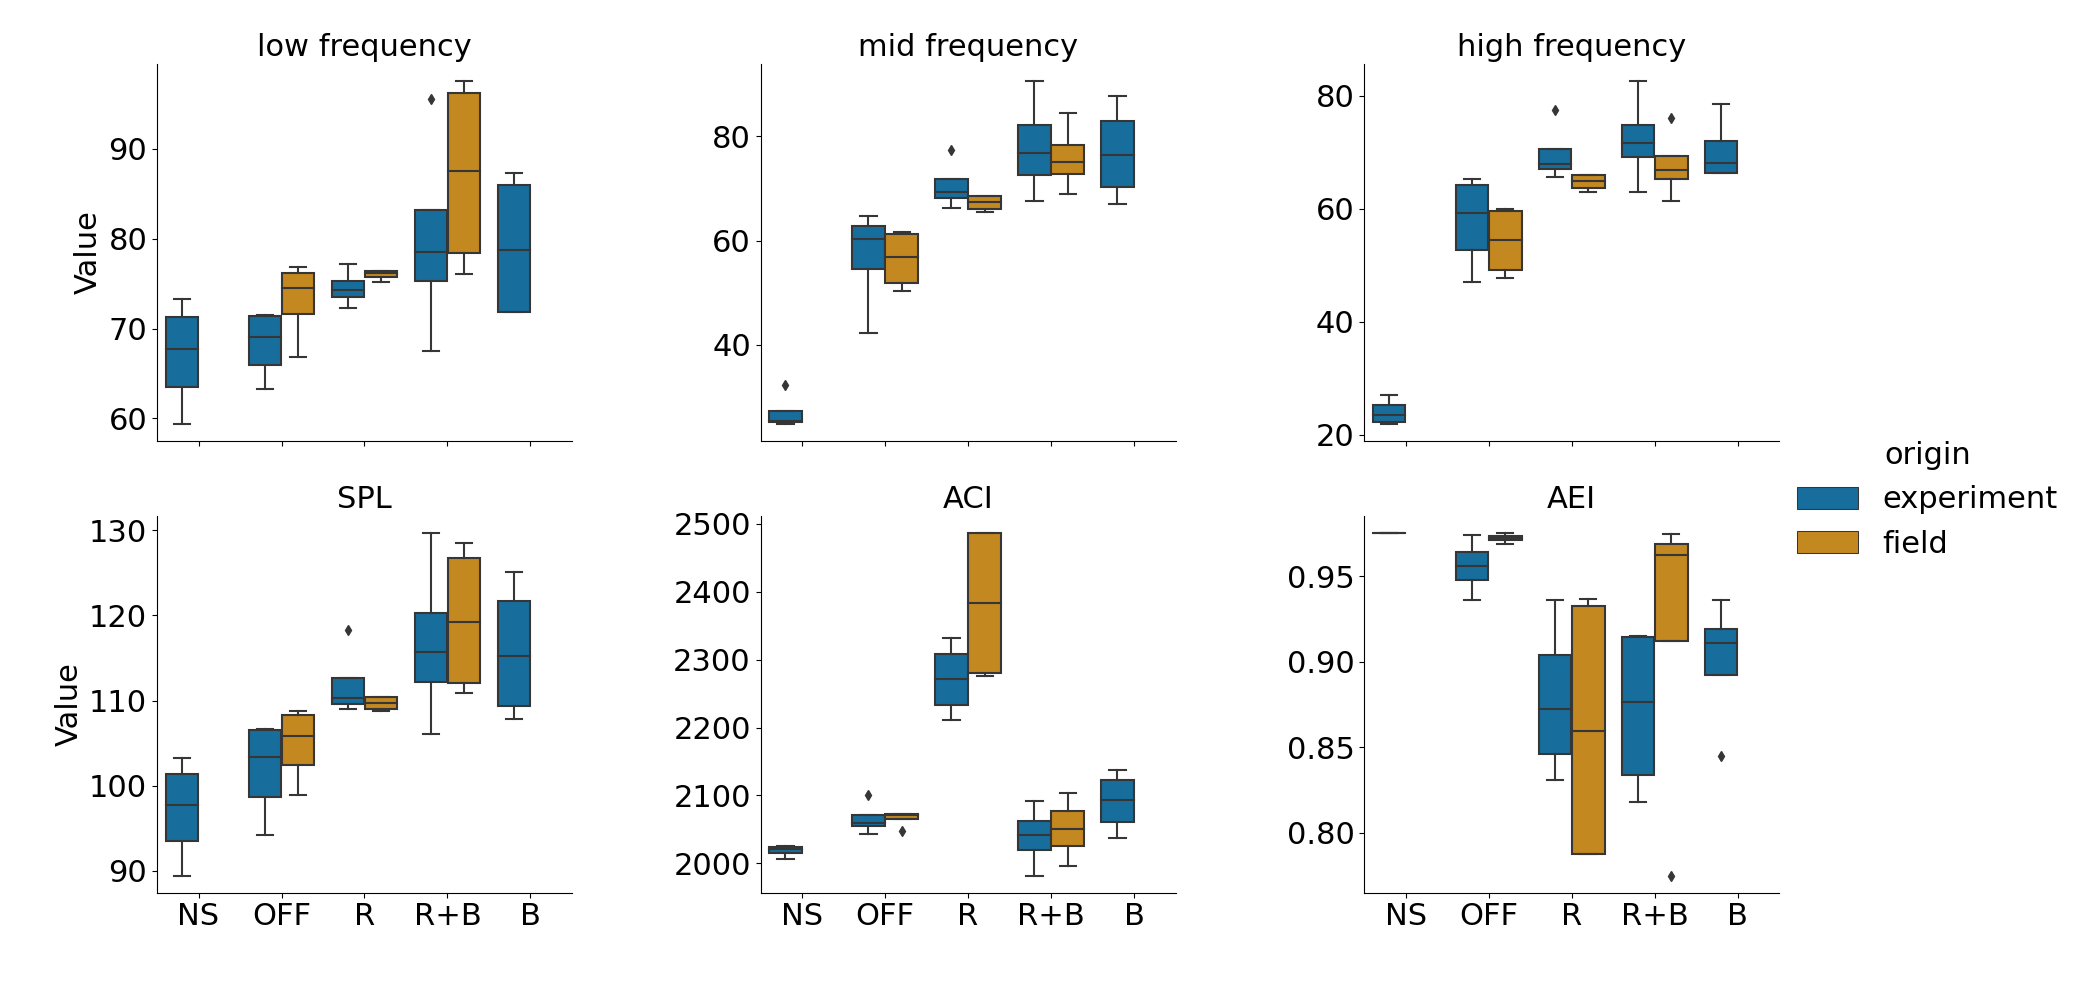
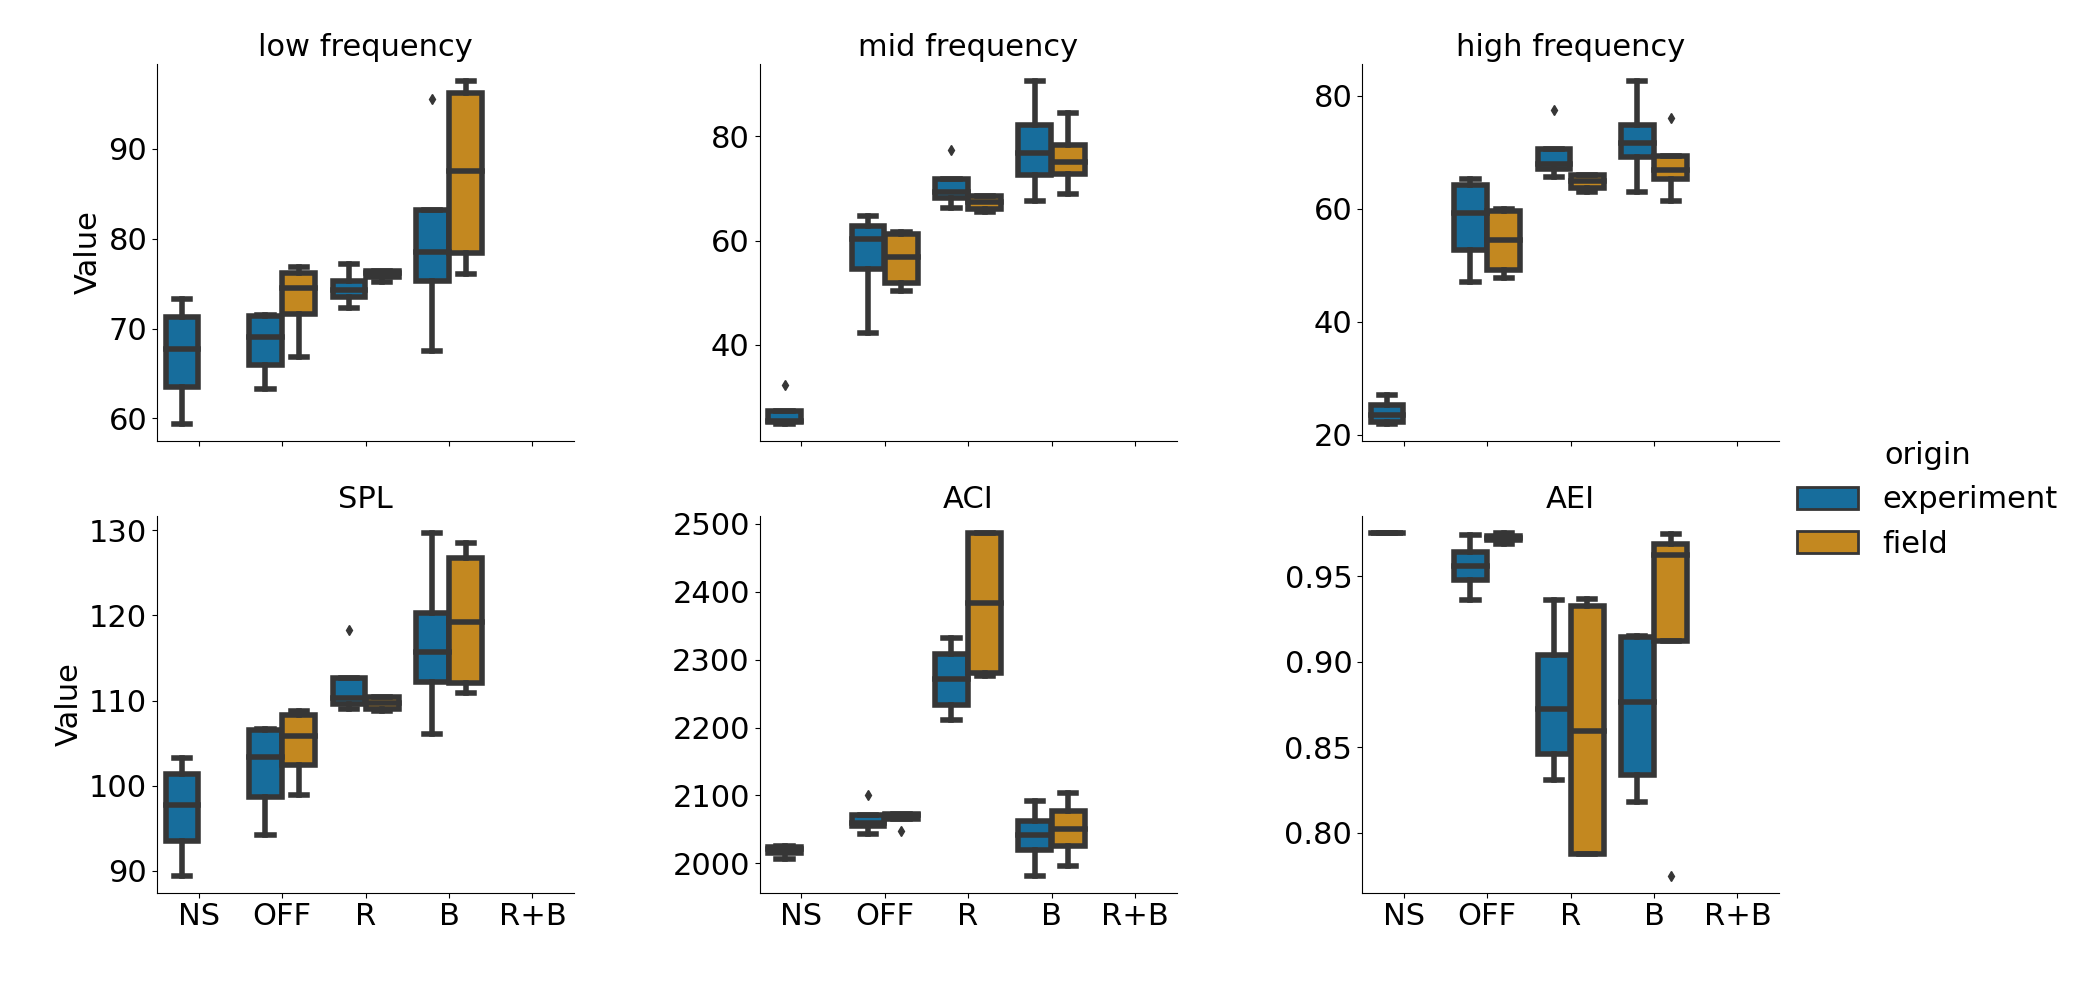
changes to plot figures correctly for the publication

diff --git a/sound_analysis_python/sound_exposition_analysis.py b/sound_analysis_python/sound_exposition_analysis.py
@@ -166,20 +166,25 @@ for col in total_results.columns:
 n_batches = len(results_df.batch.unique())
 
 # Select and plot the psd
+total_results = total_results.replace(['no_sound', 'off_reef', 'reef', 'boat', 'reef_and_boat'],
+                                      ['no sound', 'off reef', 'reef', 'vessel', 'reef and vessel'])
 selected_freqs = list(np.array(freq_cols)[np.array(freq_vals) < max_freq])
 psd_results = total_results[selected_freqs + ['batch', 'origin', 'treatment']]
 psd_results = psd_results.melt(id_vars=['origin', 'batch', 'treatment'], value_vars=selected_freqs,
                                var_name='freq', value_name='spl')
 psd_results['freq'] = psd_results['freq'].astype(float)
 
-plt.rcParams.update({'font.size': 22})
+plt.rcParams.update({'font.size': 22,
+                     'lines.linewidth': 4})
 g = sns.FacetGrid(psd_results, col='origin', row='batch', hue='treatment', sharex=True,
                   sharey=True, xlim=(20, max_freq), height=4, aspect=1.5, palette='colorblind')
 g.map(sns.lineplot, 'freq', 'spl')
 g.set(xscale='symlog')
-g.set_axis_labels('Frequency [Hz]', r'PSD [dB re $1 \mu Pa^2/Hz^{-1}$]')
+g.fig.supylabel(r'PSD [dB re $1 \mu Pa^2Hz^{-1}$]')
+g.fig.supxlabel('Frequency [Hz]')
+g.set_axis_labels('', '')
 g.set_titles('{col_name} | {row_name}')
-g.add_legend()
+g.add_legend(title='Treatment', label_order=['reef', 'reef and vessel', 'vessel', 'off reef', 'no sound'])
 plt.savefig(output_folder.joinpath('figure_summary_psd.png'))
 plt.show()
 
@@ -189,23 +194,64 @@ metrics_results = total_results.melt(id_vars=['origin', 'treatment', 'batch'], v
                                      var_name='feature', value_name='value')
 
 # Get ADI out
-metrics_results = metrics_results.loc[metrics_results.feature != 'adi']
-metrics_results["feature"] = metrics_results["feature"].map({'aci': "ACI", 'aei': "AEI", 'spl': 'SPL',
+# metrics_results = metrics_results.loc[metrics_results.feature != 'adi']
+metrics_results["feature"] = metrics_results["feature"].map({'aci': "ACI", 'aei': "AEI", 'spl': 'SPL', 'adi': 'ADI',
                                                              'low_freq': 'low frequency', 'mid_freq': 'mid frequency',
                                                              'high_freq': 'high frequency'})
+metrics_results["treatment"] = metrics_results["treatment"].map({'no sound': 'NS', 'vessel': 'V', 'off reef': 'OFF', 'reef': 'R',
+                                                                 'reef and vessel': 'R+V'})
 
-g = sns.catplot(
-    data=metrics_results, x='treatment', y='value', col='feature', hue='origin',
-    kind='box', col_wrap=3, sharex=True, sharey=False, height=5, aspect=1.2,
-    col_order=['low frequency', 'mid frequency', 'high frequency', 'SPL', 'ACI', 'AEI'],
-    order=['no_sound', 'off_reef', 'reef', 'boat', 'reef_and_boat'], palette='colorblind'
-)
-g.set_axis_labels('', 'Value')
-g.set_xticklabels(['NS', 'OFF', 'R', 'R+B', 'B'])
-g.set_titles('{col_name}')
-plt.savefig(output_folder.joinpath('figure_summary_metrics.png'))
+plt.rcParams.update({'font.size': 24})
+fig, ax = plt.subplots(2, 4, figsize=(24, 12), sharex=True)
+sns.boxplot(metrics_results.loc[metrics_results['feature'] == 'low frequency'], x='treatment', y='value', ax=ax[1][0],
+            hue='origin', order=['R', 'R+V', 'V', 'OFF', 'NS'], palette='colorblind', legend=False)
+ax[1][0].set_ylim([20, 100])
+ax[1][0].set_title('low frequency PSD')
+ax[1][0].set_ylabel('Average PSD [dB re $1 \mu Pa^2Hz^{-1}$]')
+sns.boxplot(metrics_results.loc[metrics_results['feature'] == 'mid frequency'], x='treatment', y='value', ax=ax[1][1],
+            hue='origin', order=['R', 'R+V', 'V', 'OFF', 'NS'], palette='colorblind', legend=False)
+ax[1][1].set_ylim([20, 100])
+ax[1][1].set_title('mid frequency PSD')
+ax[1][1].set_ylabel('Average PSD [dB re $1 \mu Pa^2Hz^{-1}$]')
+sns.boxplot(metrics_results.loc[metrics_results['feature'] == 'high frequency'], x='treatment', y='value', ax=ax[1][2],
+            hue='origin', order=['R', 'R+V', 'V', 'OFF', 'NS'], palette='colorblind', legend=False)
+ax[1][2].set_ylim([20, 100])
+ax[1][2].set_title('high frequency PSD')
+ax[1][2].set_ylabel('Average PSD [dB re $1 \mu Pa^2Hz^{-1}$]')
+sns.boxplot(metrics_results.loc[metrics_results['feature'] == 'SPL'], x='treatment', y='value', ax=ax[1][3],
+            hue='origin', order=['R', 'R+V', 'V', 'OFF', 'NS'], palette='colorblind', legend=False)
+ax[1][3].set_ylim([60, 130])
+ax[1][3].set_title('Broadband Sound Level')
+ax[1][3].set_ylabel('$SL_{rms}$ [dB re $1 \mu Pa^2$]')
+sns.boxplot(metrics_results.loc[metrics_results['feature'] == 'ACI'], x='treatment', y='value', ax=ax[0][0],
+            hue='origin', order=['R', 'R+V', 'V', 'OFF', 'NS'], palette='colorblind', legend=False)
+ax[0][0].set_ylabel('Index value [unitless]')
+ax[0][0].set_title('ACI')
+sns.boxplot(metrics_results.loc[metrics_results['feature'] == 'ADI'], x='treatment', y='value', ax=ax[0][1],
+            hue='origin', order=['R', 'R+V', 'V', 'OFF', 'NS'], palette='colorblind', legend=False)
+ax[0][1].set_ylabel('Index value [unitless]')
+ax[0][1].set_title('ADI')
+g = sns.boxplot(metrics_results.loc[metrics_results['feature'] == 'AEI'], x='treatment', y='value', ax=ax[0][2],
+            hue='origin', order=['R', 'R+V', 'V', 'OFF', 'NS'], palette='colorblind', legend=True)
+ax[0][2].set_title('AEI')
+ax[0][2].set_ylabel('Index value [unitless]')
+
+lines, handles = ax[0][2].get_legend_handles_labels()
+g.legend().set_visible(False)
+ax[0][2].set_ylabel('Index value [unitless]')
+ax[0][3].axis('off')
+ax[0][3].legend(lines, handles)
+plt.tight_layout()
 plt.show()
 
-
-
-
+# g = sns.catplot(
+#     data=metrics_results, x='treatment', y='value', col='feature', hue='origin',
+#     kind='box', col_wrap=3, sharex=True, sharey=False, height=5, aspect=1.2,
+#     col_order=['low frequency', 'mid frequency', 'high frequency', 'SPL', 'ACI', 'AEI'],
+#     order=['no sound', 'off reef', 'reef', 'boat', 'reef and_boat'], palette='colorblind'
+# )
+# g.set_axis_labels('', 'Value')
+# g.set_xticklabels(['NS', 'OFF', 'R', 'B', 'R+B'])
+# g.set_titles('{col_name}')
+# plt.savefig(output_folder.joinpath('figure_summary_metrics.png'))
+# plt.show()
